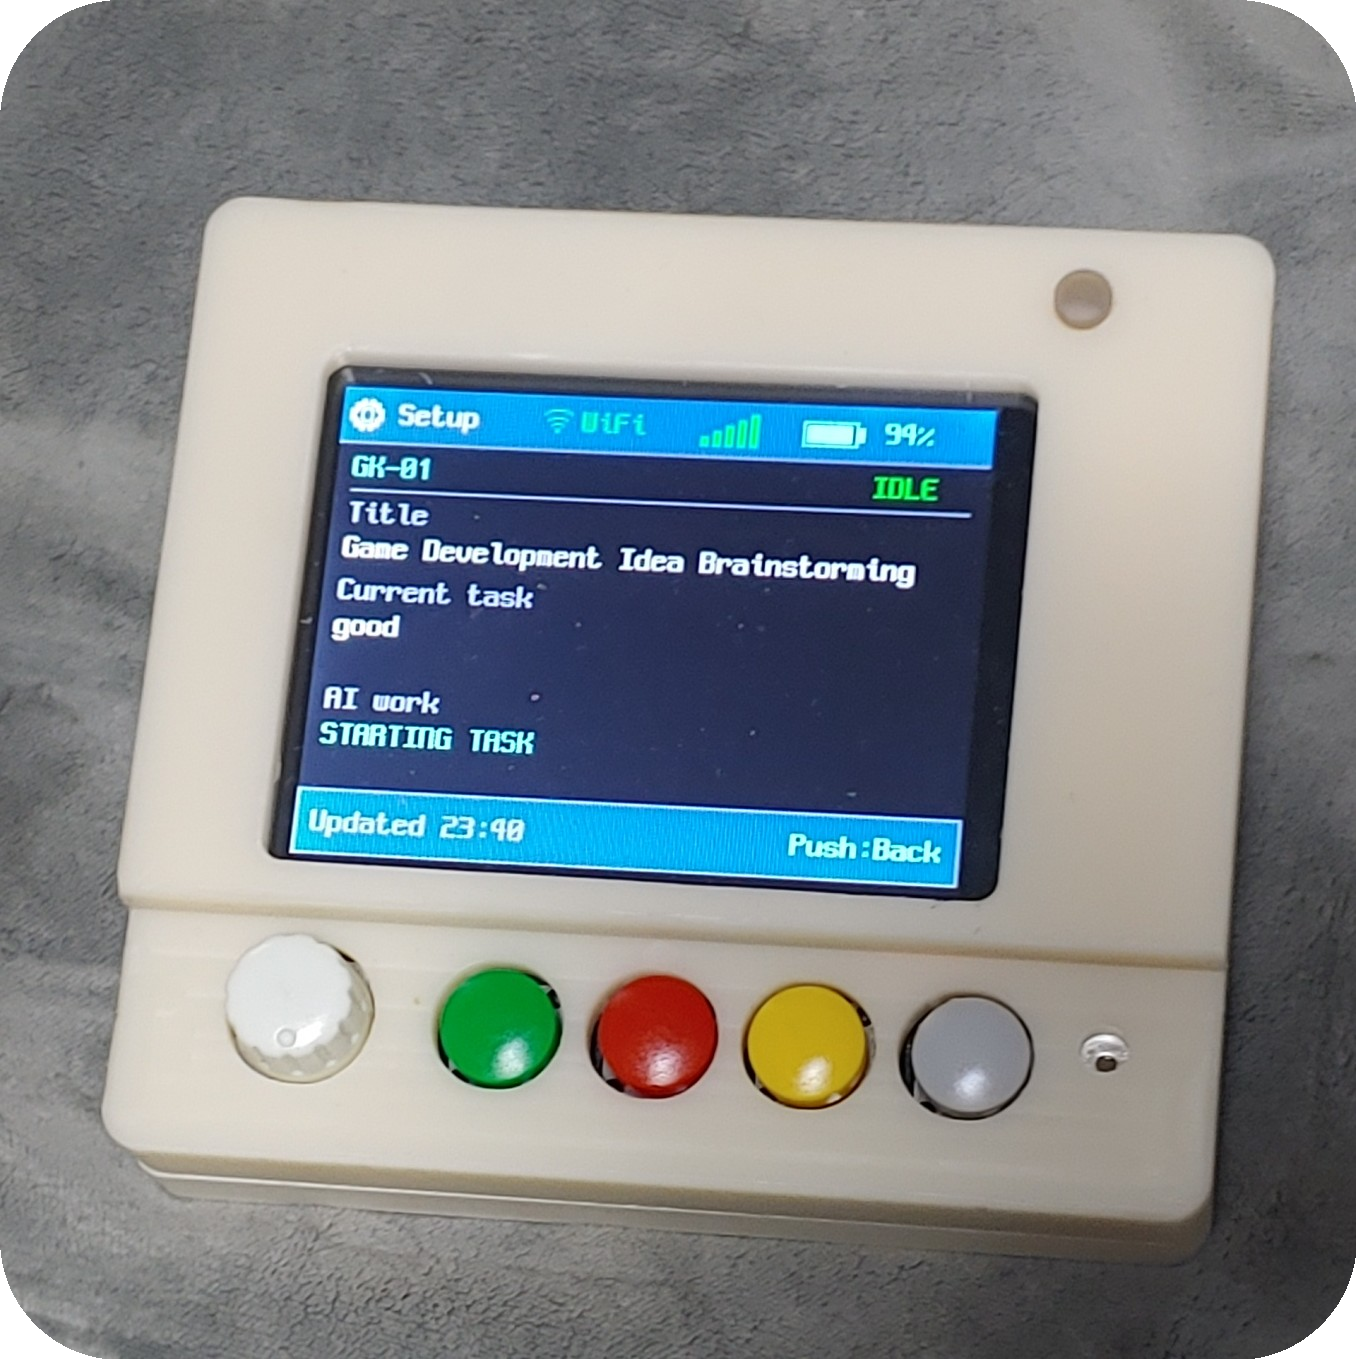
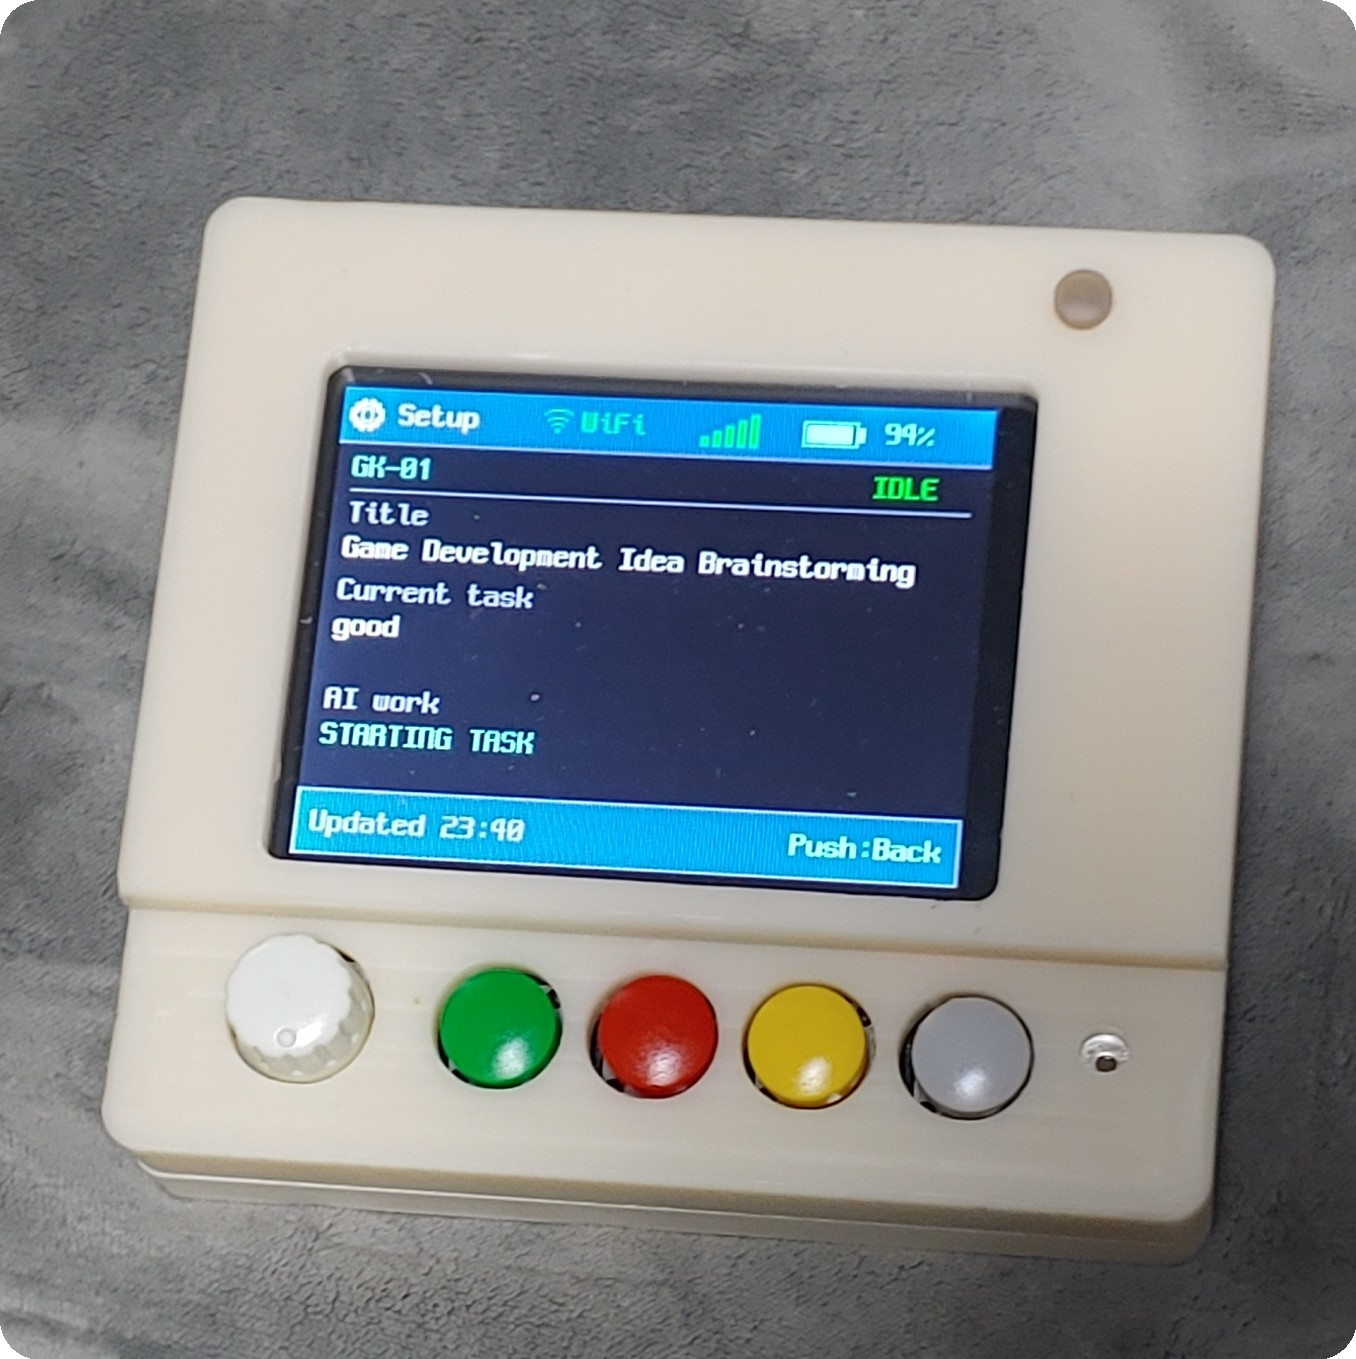
Reduce Agent Seal image to 400px with subtle rounded corners

diff --git a/README.md b/README.md
@@ -19,7 +19,7 @@ and review, approve, or deny AI permission requests directly in the UI or on Age
 
 ## Agent Seal
 
-<img src="assets/agent_seal_rounded.png" width="949" alt="Agent Seal">
+<img src="assets/agent_seal_rounded.png" width="400" alt="Agent Seal">
 
 - **Physical Permission Approval** — Review AI permission requests on the LCD and approve with physical buttons
 - **ONCE · ALWAYS · REJECT** — Choose one-time approval, always allow, or rejection
